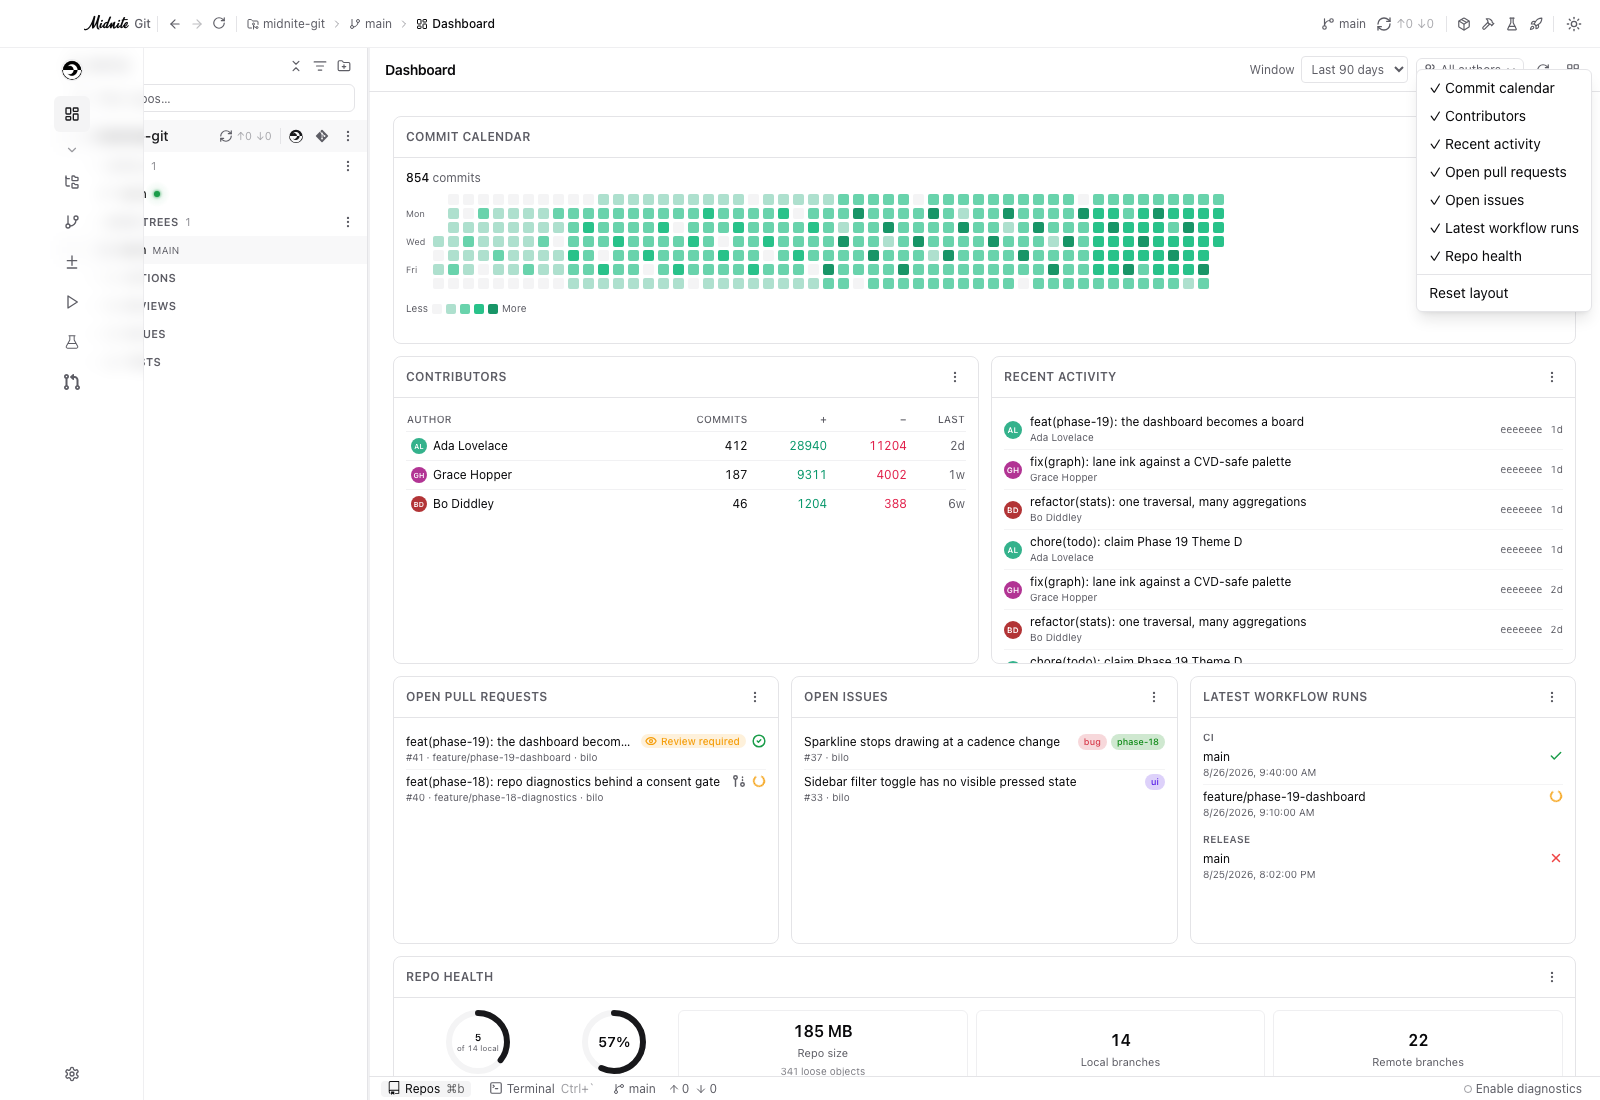
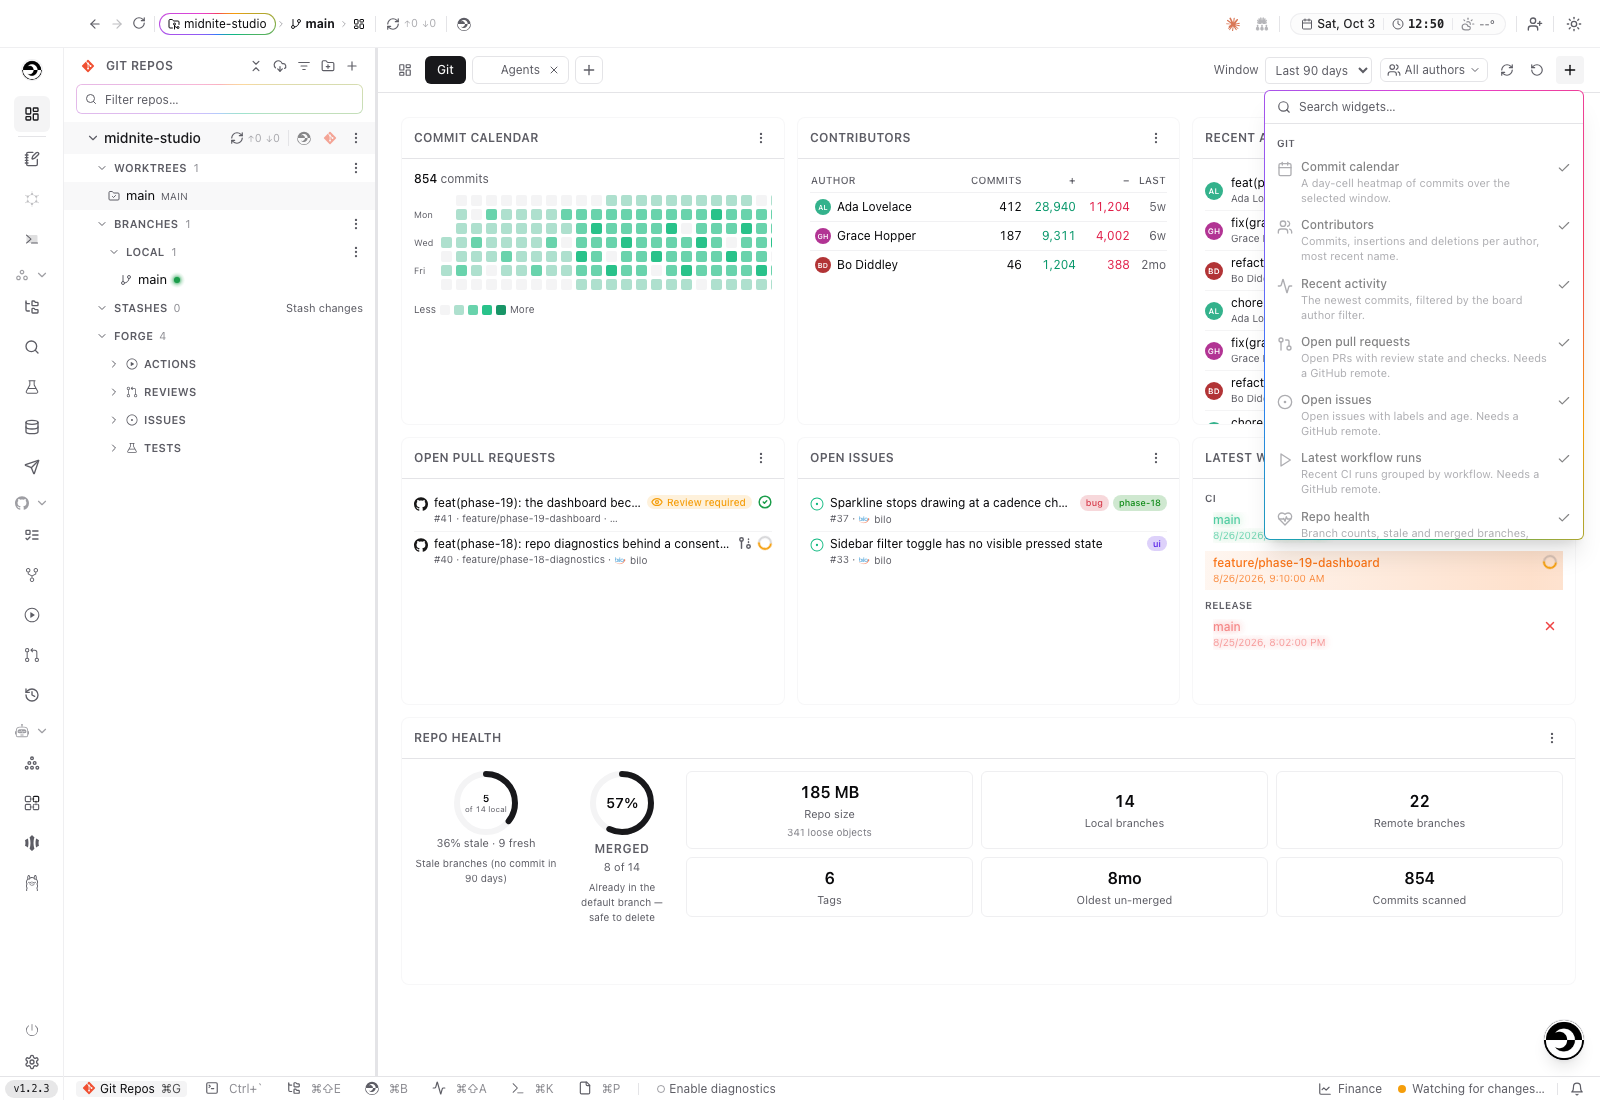
docs(dashboard): screenshots, shots spec update, done.md entry

diff --git a/packages/app/e2e/dashboard-shots.spec.ts b/packages/app/e2e/dashboard-shots.spec.ts
@@ -26,6 +26,8 @@ import {
  */
 const OUT = '../../docs/screenshots/phase-19-dashboard';
 
+const MULTI_OUT = '../../docs/screenshots/adhoc-multi-dashboards';
+
 const MAIN = '/tmp/midnite-studio';
 
 const GITHUB_REMOTE = REPRODUCIBLE_REMOTE;
@@ -245,8 +247,26 @@ test.describe('dashboard screenshots', () => {
 
   test('the widget picker', async ({ page }) => {
     await openDashboard(page);
-    await page.getByRole('button', { name: 'Widgets and layout' }).click();
-    await page.getByRole('menu').waitFor();
+    await page.getByRole('button', { name: 'Add widget' }).click();
+    await page.getByRole('dialog', { name: 'Add widget' }).waitFor();
     await page.screenshot({ path: shotPath(OUT, 'dashboard-widget-menu.png') });
+  });
+
+  test('the Agents dashboard', async ({ page }) => {
+    await openDashboard(page);
+    await page.getByRole('tab', { name: 'Agents' }).click();
+    await page.getByRole('region', { name: 'Agent roster' }).waitFor();
+    await page.waitForTimeout(SETTLE_MS);
+    await page.screenshot({ path: shotPath(MULTI_OUT, 'agents-dashboard.png') });
+  });
+
+  test('a new dashboard with the picker open', async ({ page }) => {
+    await openDashboard(page);
+    await page.getByRole('button', { name: 'Add dashboard' }).click();
+    await page.getByRole('region', { name: 'Clock' }).waitFor();
+    await page.waitForTimeout(SETTLE_MS);
+    await page.getByRole('button', { name: 'Add widget' }).click();
+    await page.getByRole('dialog', { name: 'Add widget' }).waitFor();
+    await page.screenshot({ path: shotPath(MULTI_OUT, 'new-dashboard-picker.png') });
   });
 });

diff --git a/.midnite/tasks/done.md b/.midnite/tasks/done.md
@@ -14189,3 +14189,13 @@ against a real throwaway repo via `git-engine`'s `TempRepo`. The Settings checkb
 `hooks.status` (live disk state) on every render rather than a remembered preference, so it can
 never drift from a hook a user deleted or replaced by hand. New `mstudio:hooks:status/install/uninstall`
 IPC channels and a `getHooksPath` read added to `git-engine`.
+
+### Ad hoc — multiple dashboards (Git + Agents), add/remove panels
+
+Ported midnite's multi-dashboard model to the Dashboard view. The existing board is now the
+**Git** dashboard (anchor tab, still keyed per repo, so no persisted layout moved); a default
+**Agents** dashboard (agent roster, live sessions, recent sessions, per-agent activity, loop runs)
+is seeded lazily for fresh and migrated installs alike. Tabs create/rename (double-click)/pin/close/
+drag-reorder (max 10); a searchable, categorised "Add widget" picker replaces the layout menu.
+New panels: five agent cards plus Clock, Date and Scratchpad; Git panels are offered on any
+dashboard. `midnite-studio.dashboard` persist v2 -> v3 (`migrateDashboardState`, tested).
